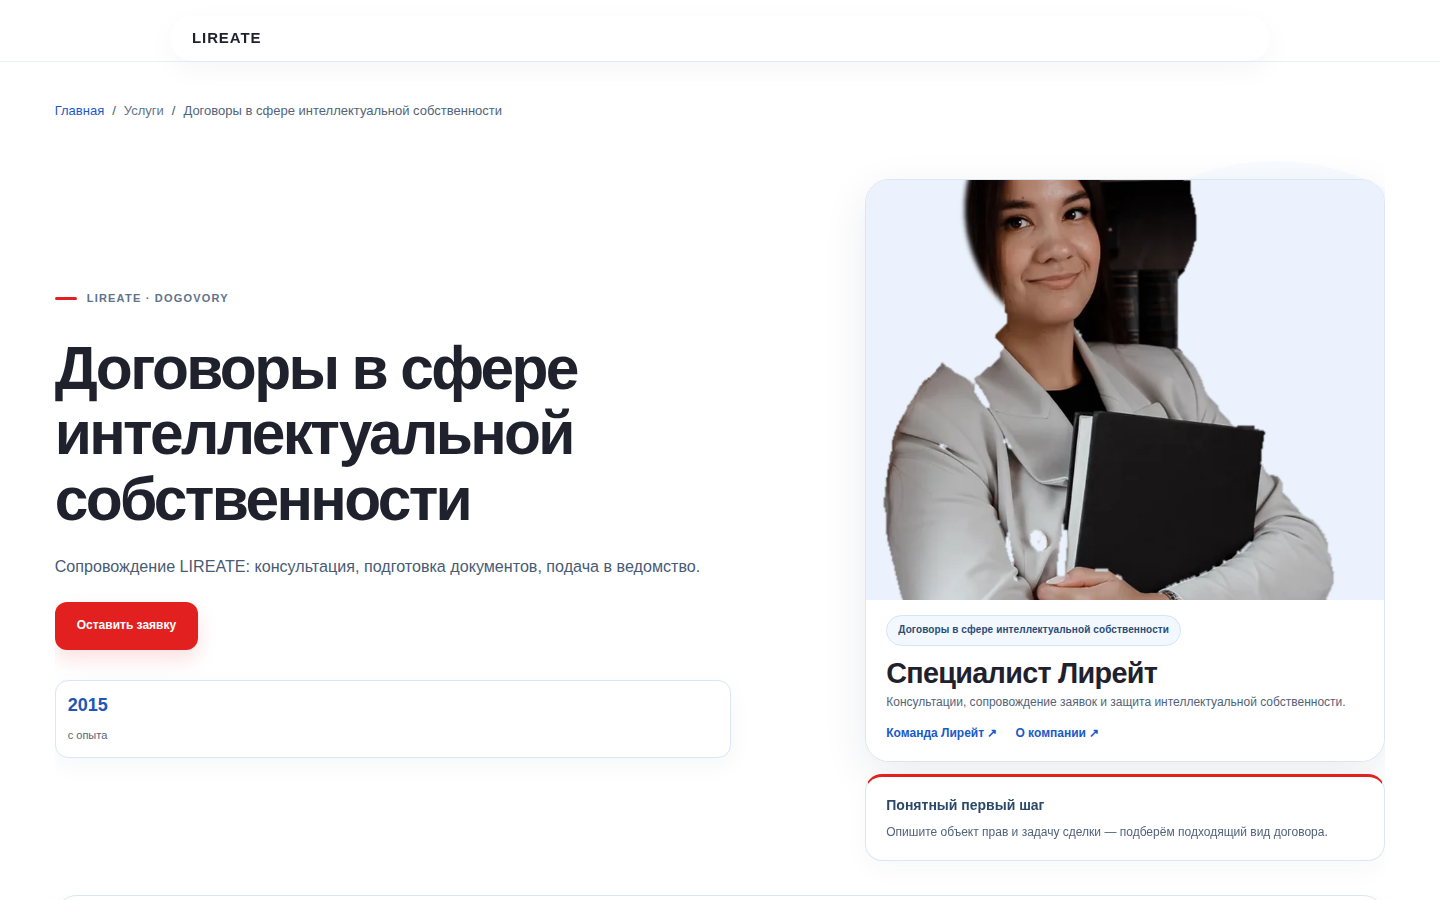
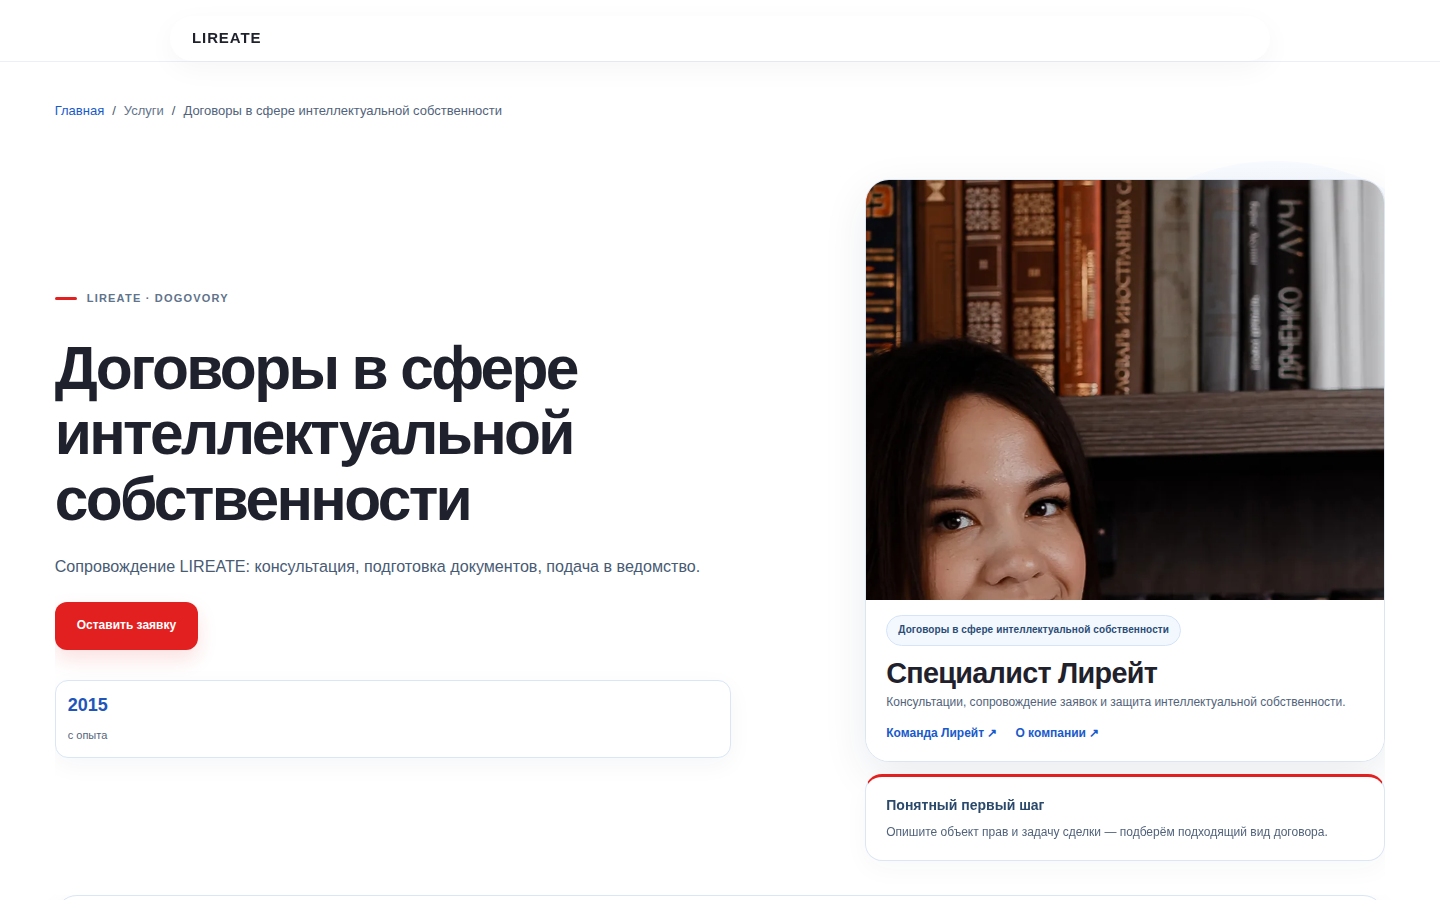
assets(services-v4): rebuild 3 specialist WebP from owner JPEG originals
Convert copyright, opposition and registraciya from full-background JPEGs
to 800×1200 RGB WebP (q≈82, <180KB). Remove 12MB originals from repo;
installer cache v20261126d. Refresh QA screenshots.

Changed region(s): [[0.5938, 0.1867, 0.9688, 0.6844]]

diff --git a/scripts/build_services_v4_from_originals.py b/scripts/build_services_v4_from_originals.py
@@ -1,0 +1,68 @@
+#!/usr/bin/env python3
+"""Convert owner JPEG originals (with background) to hero WebP for services-v4."""
+
+from __future__ import annotations
+
+import io
+from pathlib import Path
+
+from PIL import Image
+
+REPO = Path(__file__).resolve().parent.parent
+ORIG = REPO / "template/images/services-v4/originals"
+OUT = REPO / "template/images/services-v4"
+TARGET = (800, 1200)
+TARGET_RATIO = TARGET[0] / TARGET[1]
+MAX_BYTES = 180 * 1024
+QUALITY_START = 82
+
+# top_frac, height_frac of source image (face kept in upper area)
+CROP = {
+    "specialist-copyright": (0.0, 0.46),
+    "specialist-opposition": (0.02, 0.44),
+    "specialist-registraciya": (0.0, 0.52),
+}
+
+
+def crop_portrait(im: Image.Image, top_frac: float, height_frac: float) -> Image.Image:
+    w, h = im.size
+    crop_h = max(1, int(h * height_frac))
+    crop_w = int(crop_h * TARGET_RATIO)
+    if crop_w > w:
+        crop_w = w
+        crop_h = int(crop_w / TARGET_RATIO)
+    x0 = (w - crop_w) // 2
+    y0 = min(max(0, int(h * top_frac)), h - crop_h)
+    return im.crop((x0, y0, x0 + crop_w, y0 + crop_h))
+
+
+def save_webp(im: Image.Image, dest: Path) -> int:
+    im = im.convert("RGB").resize(TARGET, Image.Resampling.LANCZOS)
+    quality = QUALITY_START
+    while quality >= 68:
+        buf = io.BytesIO()
+        im.save(buf, "WEBP", quality=quality, method=6)
+        size = buf.tell()
+        if size <= MAX_BYTES:
+            dest.write_bytes(buf.getvalue())
+            return size
+        quality -= 4
+    dest.write_bytes(buf.getvalue())
+    return buf.tell()
+
+
+def main() -> None:
+    for stem, (top, height) in CROP.items():
+        src = ORIG / f"{stem}.jpg"
+        if not src.is_file():
+            raise SystemExit(f"missing {src}")
+        im = Image.open(src)
+        out_im = crop_portrait(im, top, height)
+        dest = OUT / f"{stem}.webp"
+        nbytes = save_webp(out_im, dest)
+        check = Image.open(dest)
+        print(f"OK {dest.name} {check.size} {check.mode} {nbytes // 1024} KiB q~{QUALITY_START}")
+
+
+if __name__ == "__main__":
+    main()

diff --git a/scripts/capture_six_services_photo_v4_screenshots.py b/scripts/capture_six_services_photo_v4_screenshots.py
@@ -60,8 +60,8 @@ def page_html(title: str, slug_key: str, route: str) -> str:
 <meta name="viewport" content="width=device-width, initial-scale=1">
 <title>{title} — LIREATE</title>
 <link rel="stylesheet" href="/shared/lireate-service-dark.css">
-<link rel="stylesheet" href="/template/css/lireate-six-services-photo-v4.css?v=20261126c">
-<script defer src="/template/js/lireate-six-services-photo-v4.js?v=20261126c"></script>
+<link rel="stylesheet" href="/template/css/lireate-six-services-photo-v4.css?v=20261126d">
+<script defer src="/template/js/lireate-six-services-photo-v4.js?v=20261126d"></script>
 </head>
 <body class="lireate-svc-body">
 <div class="lx-nav-shell"><header class="lx-nav-pill"><a class="lx-logo" href="/">LIREATE</a></header></div>

diff --git a/scripts/lireate_six_services_photo_v4_install.py b/scripts/lireate_six_services_photo_v4_install.py
@@ -30,8 +30,8 @@ ASSETS = (
     'specialist-opposition', 'specialist-copyright'))
 INJECTION = (
     '\n<!-- ' + MARKER + ' -->\n'
-    '<link rel="stylesheet" href="/template/css/lireate-six-services-photo-v4.css?v=20261126c">\n'
-    '<script defer src="/template/js/lireate-six-services-photo-v4.js?v=20261126c"></script>\n'
+    '<link rel="stylesheet" href="/template/css/lireate-six-services-photo-v4.css?v=20261126d">\n'
+    '<script defer src="/template/js/lireate-six-services-photo-v4.js?v=20261126d"></script>\n'
 )
 HEAD_CLOSE = re.compile(r'</head\s*>', re.IGNORECASE)
 

diff --git a/template/images/services-v4/SOURCES.ru.md b/template/images/services-v4/SOURCES.ru.md
@@ -1,28 +1,26 @@
 # Источники фото services-v4
 
-## Что есть в репозитории
+## Файлы в установке (только WebP)
 
-В ветке PR #128 в git попали только файлы `specialist-*.webp` из коммита `064601e` (первично — с прозрачным фоном после автоматического вырезания).
+Установщик `scripts/lireate_six_services_photo_v4_install.py` копирует **только** пять `specialist-*.webp` в корне каталога, без `originals/`.
 
-## Чего нет в репозитории
+## Три фото с фоном (обновление 26.11.2026)
 
-- Исходных **JPEG/PNG с нативным студийным фоном** для пяти постановок (свидетельство, костюм с папкой, леопардовая блузка, чёрный пиджак, зелёный топ) — **нет** в истории `devham13/lireate`.
-- На боевом сайте `/template/images/services-v4/*.webp` — **404** (PR ещё не выложен).
+Оригиналы владельца (JPEG с полным фоном) конвертированы в:
 
-## Где искали
+- `specialist-copyright.webp`
+- `specialist-opposition.webp`
+- `specialist-registraciya.webp`
 
-| Источник | Результат |
-|---|---|
-| `git log --all -- template/images/services-v4` | только WebP в `064601e` |
-| GitHub code search `specialist-certificate` | пусто |
-| Страница `/team` (`/template/images/team/person/{n}.jpg`) | портреты 350×525 или 853×1280, **другие кадры**, не те же постановки, что в таблице услуг |
-| `design-proposals/incoming/` | только hero Эльвиры, не пять услуг |
+Скрипт: `scripts/build_services_v4_from_originals.py` (читает временно положенные `originals/*.jpg`, в git **не хранятся**).
 
-## Текущая сборка WebP
+Параметры: RGB WebP 800×1200, качество ~82, без rembg и без подложки.
 
-`scripts/build_services_v4_opaque_webp.py`:
+## Два фото без смены в этом PR
 
-1. Восстанавливает **непрозрачный** RGB-кадр (мягкая подложка `#eaf2fc` только там, где раньше была прозрачность вырезки).
-2. Лёгкое **кадрирование** по краям (без ретуши лица/одежды), чтобы hero с `object-fit: cover` показывал лицо и грудь.
+- `specialist-certificate.webp`
+- `specialist-prolongation.webp`
 
-После получения оригиналов с фоном от владельца — положить их в этот каталог как `specialist-<slug>-source.jpg`, пересобрать WebP или заменить файлы напрямую (800×1200 RGB WebP).
+## `/team`
+
+Портреты `/template/images/team/person/{n}.jpg` — другие кадры, не заменяют пять постановок услуг.
